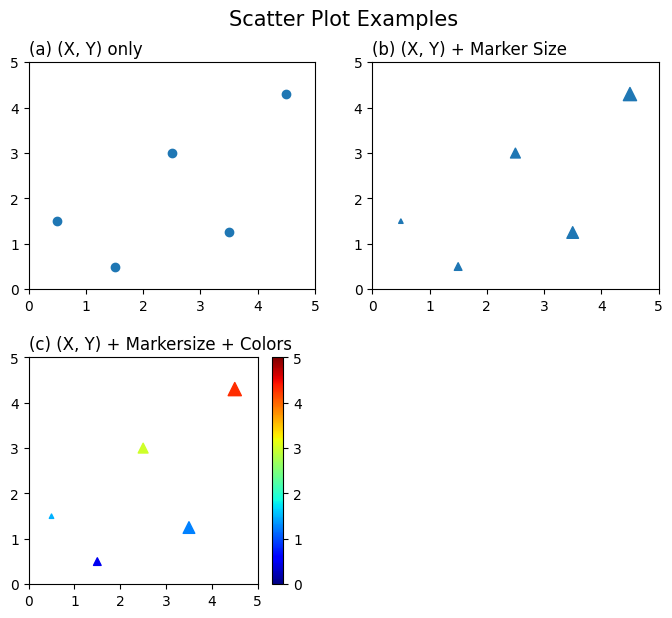
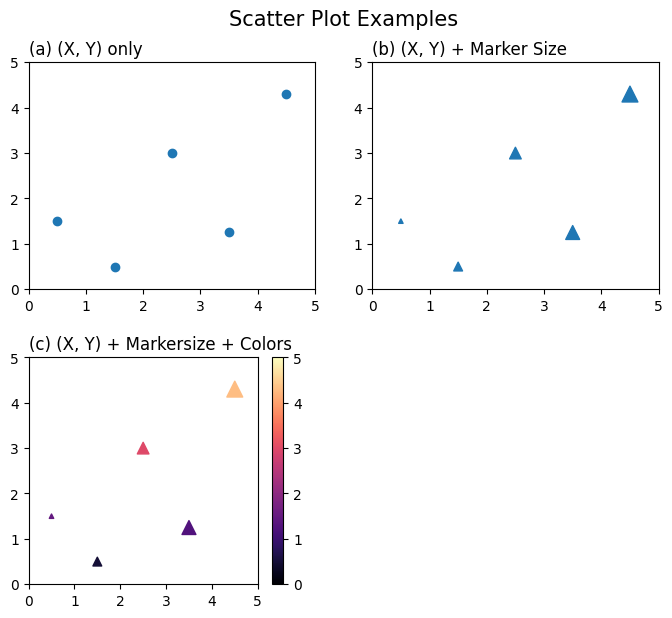
2021.0629

diff --git a/N.Matplotlib_Basic_plus/N05_2D_pcolormesh.py3.py b/N.Matplotlib_Basic_plus/N05_2D_pcolormesh.py3.py
@@ -1,0 +1,71 @@
+'''
+Matplotlib Basic_Lv2: 5. "pcolormesh" for 2D array
+: Display 2d array with pcolormesh()
+
+by Daeho Jin
+
+---
+Reference:
+https://matplotlib.org/stable/api/_as_gen/matplotlib.axes.Axes.pcolormesh.html
+'''
+import numpy as np
+import matplotlib.pyplot as plt
+
+###--- Synthesizing data to be plotted ---###
+x = y = np.linspace(0,1,6)  # For 5x5 array
+X,Y = np.meshgrid(x,y)
+Z = np.cos(np.pi/2*X)-np.sin(np.pi/2*Y)
+resol= x[1]-x[0]
+xp = yp = np.concatenate((x-resol/2,[x[-1]+resol/2,]))
+Xp1,Yp1 = np.meshgrid(xp,yp)  # Grid wrapping data points; needed for pcolormesh
+
+x2 = y2 = np.linspace(0,1,11)  # For 10x10 array
+X2,Y2 = np.meshgrid(x2,y2)
+Z2 = np.cos(np.pi/2*X2)-np.sin(np.pi/2*Y2)
+resol= x2[1]-x2[0]
+xp2 = yp2 = np.concatenate((x2-resol/2,[x2[-1]+resol/2,]))
+Xp2,Yp2 = np.meshgrid(xp2,yp2)  # Grid wrapping data points; needed for pcolormesh
+
+data= [(Xp1,Yp1,Z), (X,Y,Z), (Xp2,Yp2,Z2), (X2,Y2,Z2),]
+##<---- Different grid information is needed by shading method!
+
+###---
+
+abc='abcdefghijklmn'
+###--- Plotting Start ---###
+
+##-- Page Setup --##
+fig = plt.figure()
+fig.set_size_inches(6,6)    # Physical page size in inches, (lx,ly)
+fig.subplots_adjust(left=0.05,right=0.95,bottom=0.05,top=0.925,wspace=0.2,hspace=0.3)
+
+##-- Title for the page --##
+suptit="Imshow Example"
+fig.suptitle(suptit,fontsize=15,y=0.98,va='bottom')  #,ha='left',x=0.,y=0.98,stretch='semi-condensed')
+
+panel_names= ['Defalut',"shading='gouraud'",'Defalut',"shading='gouraud'",]
+prop_settings= [dict(), dict(shading='gouraud'), dict(), dict(shading='gouraud')]
+
+
+nrow, ncol= 2,2
+for i,(XYZ,tit,props) in enumerate(zip(data,panel_names,prop_settings)):
+    X,Y,Z= XYZ
+    ax1= fig.add_subplot(nrow,ncol,i+1)
+    pic1= ax1.pcolormesh(X,Y,Z,**props)
+    subtit='({}) {}'.format(abc[i],panel_names[i])
+    ax1.set_title(subtit,fontsize=12,x=0.,ha='left')
+
+plt.colorbar(pic1)
+##-- Seeing or Saving Pic --##
+
+#- If want to save to file
+outdir = "../Pics/"
+outfnm = outdir+"N05_2D_pcolormesh_ex1.png"
+print(outfnm)
+#fig.savefig(outfnm,dpi=100)   # dpi: pixels per inch
+fig.savefig(outfnm,dpi=100,bbox_inches='tight')   # dpi: pixels per inch
+
+# Defalut: facecolor='w', edgecolor='w', transparent=False
+
+#- If want to see on screen -#
+plt.show()

diff --git a/N.Matplotlib_Basic_plus/N04_2D_imshow.py3.py b/N.Matplotlib_Basic_plus/N04_2D_imshow.py3.py
@@ -1,0 +1,67 @@
+'''
+Matplotlib Basic_Lv2: 4. "imshow" for 2D array
+: Display 2d array with imshow()
+
+by Daeho Jin
+
+---
+Reference:
+https://matplotlib.org/stable/api/_as_gen/matplotlib.axes.Axes.imshow.html
+'''
+import numpy as np
+import matplotlib.pyplot as plt
+
+###--- Synthesizing data to be plotted ---###
+x = y = np.linspace(0,1,6)  # For 5x5 array
+X,Y = np.meshgrid(x,y)
+Z = np.cos(np.pi/2*X)-np.sin(np.pi/2*Y)
+
+x2 = y2 = np.linspace(0,1,11)  # For 10x10 array
+X2,Y2 = np.meshgrid(x2,y2)
+Z2 = np.cos(np.pi/2*X2)-np.sin(np.pi/2*Y2)
+
+data= [Z,Z2]
+
+###---
+
+abc='abcdefghijklmn'
+###--- Plotting Start ---###
+
+##-- Page Setup --##
+fig = plt.figure()
+fig.set_size_inches(5,8.5)    # Physical page size in inches, (lx,ly)
+fig.subplots_adjust(left=0.05,right=0.95,bottom=0.05,top=0.94,wspace=0.2,hspace=0.4)
+
+##-- Title for the page --##
+suptit="Imshow Example"
+fig.suptitle(suptit,fontsize=15,y=1.0)  #,ha='left',x=0.,y=0.98,stretch='semi-condensed')
+
+panel_names= ['Defalut','origin="lower"', 'interpolation="bilinear"',
+                'extent=[2,5,-1,1]','aspect="auto"']
+prop_settings= [dict(), dict(origin='lower'), dict(interpolation='bilinear'),
+                dict(extent=[2,5,-1,1]),dict(aspect="auto")]
+
+nrow, ncol= 5,2
+for j,Z in enumerate(data):
+    for i,(tit,props) in enumerate(zip(panel_names,prop_settings)):
+
+        ax1= fig.add_subplot(nrow,ncol,i*2+j+1)
+        pic1= ax1.imshow(Z,**props)
+        if j==0:
+            subtit='({}) {}'.format(abc[i],panel_names[i])
+            ax1.set_title(subtit,fontsize=12)
+
+plt.colorbar(pic1)
+##-- Seeing or Saving Pic --##
+
+#- If want to save to file
+outdir = "../Pics/"
+outfnm = outdir+"N04_2D_imshow_ex1.png"
+print(outfnm)
+#fig.savefig(outfnm,dpi=100)   # dpi: pixels per inch
+fig.savefig(outfnm,dpi=100,bbox_inches='tight')   # dpi: pixels per inch
+
+# Defalut: facecolor='w', edgecolor='w', transparent=False
+
+#- If want to see on screen -#
+plt.show()

diff --git a/N.Matplotlib_Basic_plus/N02_scatter_plot.py3.py b/N.Matplotlib_Basic_plus/N02_scatter_plot.py3.py
@@ -16,7 +16,7 @@ import matplotlib.pyplot as plt
 ###--- Synthesizing data to be plotted ---###
 xx = np.arange(5)+0.5
 yy = [1.5,0.5,3,1.25,4.3]
-sz = np.arange(5)*20+10
+sz = np.arange(5)*30+10
 cc = yy
 
 ###---
@@ -37,10 +37,10 @@ fig.suptitle(suptit,fontsize=15,va='bottom',y=0.975)  #,ha='left',x=0.,stretch='
 
 
 ### Pick colors from pre-defined colormap; https://matplotlib.org/stable/tutorials/colors/colormaps.html
-cmap= plt.get_cmap('jet')
+#cmap= plt.cm.get_cmap('magma')
 
 panel_names= ['(X, Y) only','(X, Y) + Marker Size', '(X, Y) + Markersize + Colors']
-prop_settings= [dict(), dict(s=sz,marker='^'), dict(s=sz,marker='^',c=yy,vmin=0,vmax=5,cmap=cmap)]
+prop_settings= [dict(), dict(s=sz,marker='^'), dict(s=sz,marker='^',c=yy,vmin=0,vmax=5,cmap='magma')]
 nrow, ncol= 2,2
 for i,(tit,props) in enumerate(zip(panel_names,prop_settings)):
     ##-- Set up an axes --##

diff --git a/N.Matplotlib_Basic_plus/N03_bar_plot.py3.py b/N.Matplotlib_Basic_plus/N03_bar_plot.py3.py
@@ -32,10 +32,6 @@ fig.subplots_adjust(left=0.05,right=0.95,top=0.92,bottom=0.05,
 suptit = "Bar Plot Examples"
 fig.suptitle(suptit,fontsize=15,va='bottom',y=0.975)  #,ha='left',x=0.,stretch='semi-condensed')
 
-
-### Pick colors from pre-defined colormap; https://matplotlib.org/stable/tutorials/colors/colormaps.html
-cmap= plt.get_cmap('jet')
-
 panel_names= ['Defalut','width=0.4', 'align="edge"', 'Different Colors']
 prop_settings= [dict(), dict(width=0.4), dict(align='edge'),dict()]
 

diff --git a/M.Matplotlib_Basic_Setup/M09_specify_color.py3.py b/M.Matplotlib_Basic_Setup/M09_specify_color.py3.py
@@ -44,7 +44,7 @@ color4= [(0, 191/255, 1), (1,0.5,0.1),'#00ff00','#c5b0d5','crimson','aquamarine'
 #<--- (r,g,b), hex code, or any HTML color names (X11/CSS4 colors)
 
 ### Pick colors from pre-defined colormap; https://matplotlib.org/stable/tutorials/colors/colormaps.html
-cmap= plt.get_cmap('magma',10)
+cmap= plt.cm.get_cmap('magma',10)
 cmap= cmap(np.arange(10))  # Results in np.ndarray, [10,4]
 color5= list(cmap)
 
